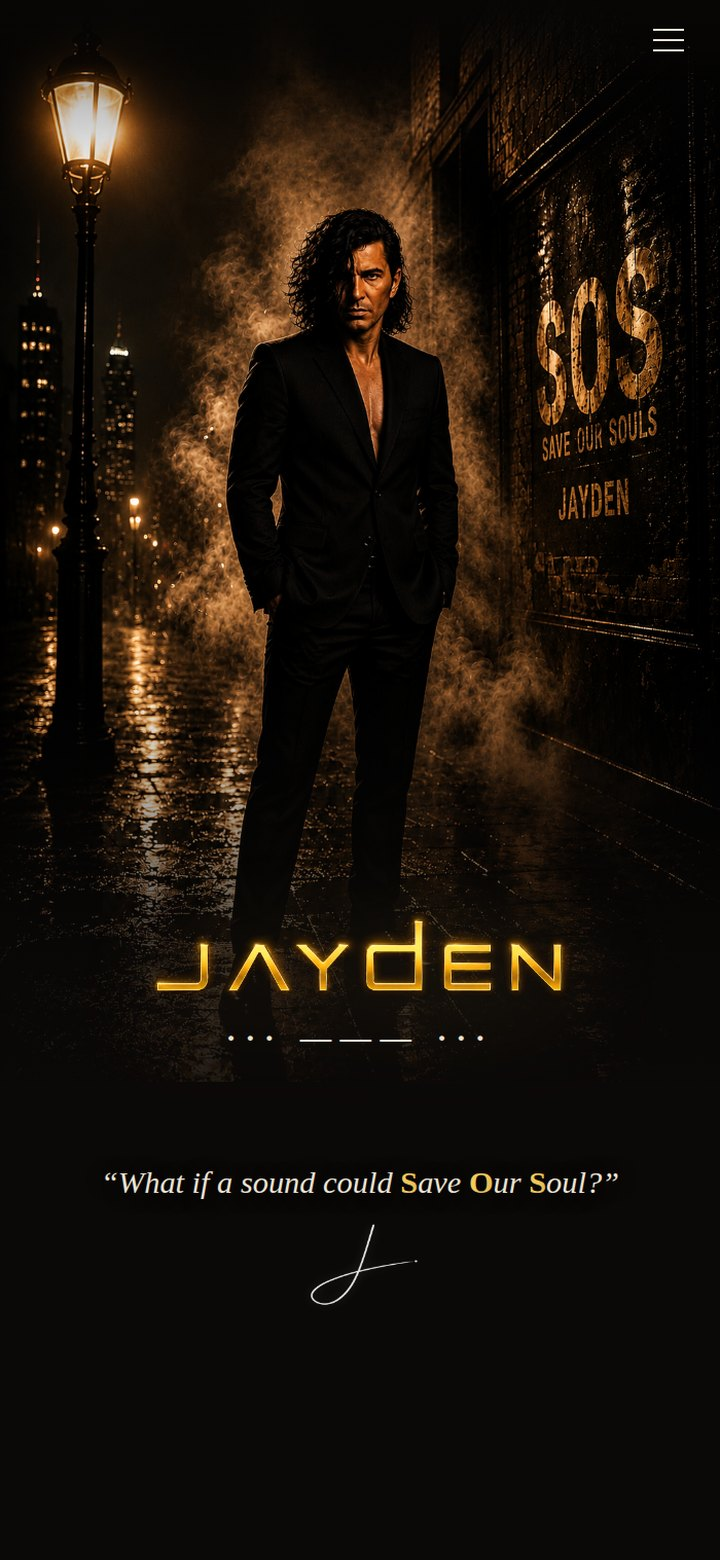
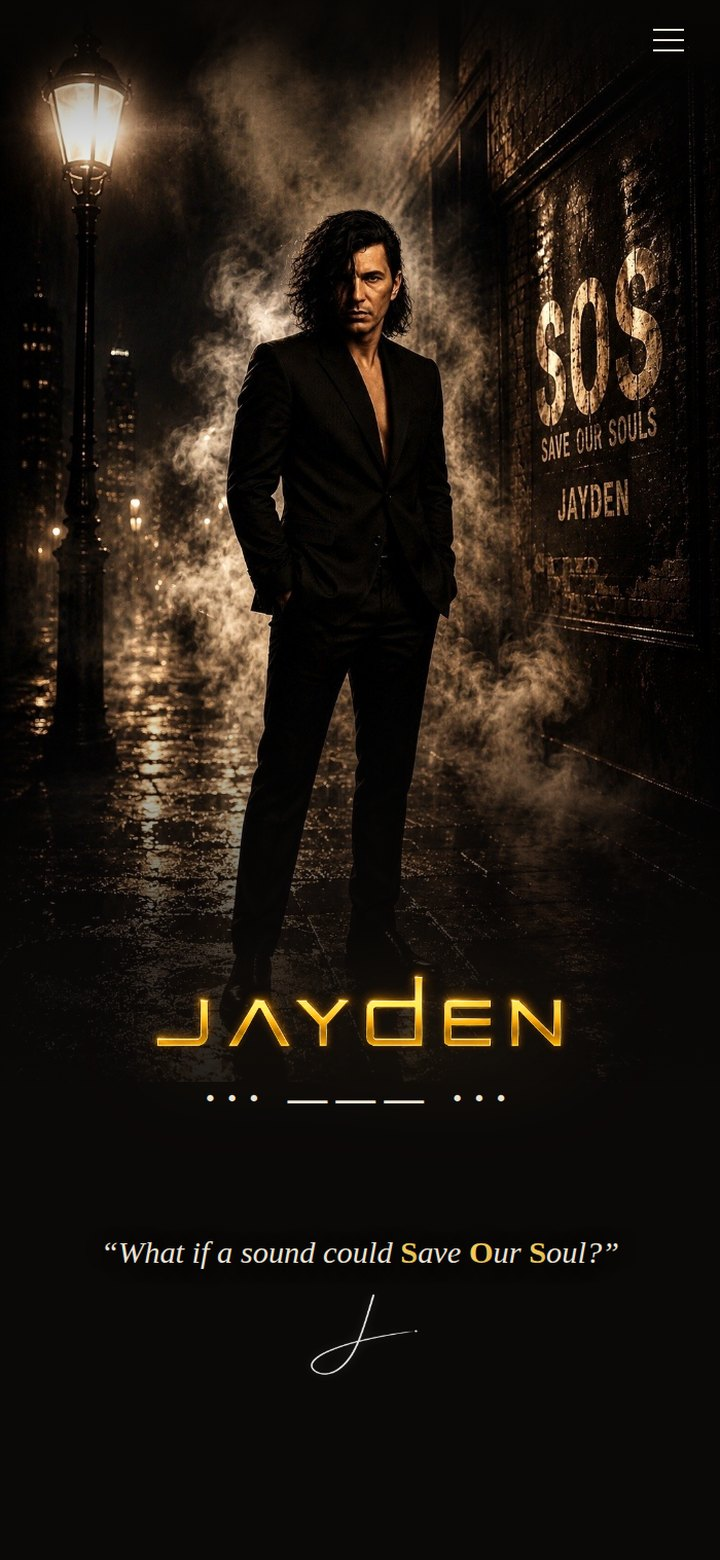
Met à jour les aperçus Jayden et Yuméa (desktop + mobile, dernières versions)
- Recapture depuis les sites déployés (nouveau titre/SEO Jayden, finitions Yuméa).
- Mobiles au ratio exact du cadre téléphone (entièrement visibles).
- Bump du cache des images (v3 -> v4), preload LCP mis à jour.

Claude-Session: https://claude.ai/code/session_01DNhDWoAcTDCkcv1VGcK7zk

diff --git a/script.js b/script.js
@@ -463,8 +463,8 @@
     const showcase = document.querySelector("[data-showcase]");
     if (!showcase) return;
     const PROJECTS = [
-      { host: "jaydenmusic.com", url: "https://jaydenmusic.com/", desktop: "img/jaydenmusic-desktop.jpg?v=3", mobile: "img/jaydenmusic-mobile.jpg?v=3", name: "Jayden", kindKey: "kind.jayden", kindFr: "Site web · Artiste musical", descKey: "desc.jayden", descFr: "Site officiel du chanteur Jayden — rock, soul et poésie." },
-      { host: "yumea-wellness.be", url: "https://www.yumea-wellness.be/", desktop: "img/yumea-desktop.jpg?v=3", mobile: "img/yumea-mobile.jpg?v=3", name: "Yuméa Wellness", kindKey: "kind.yumea", kindFr: "Site web · Bien-être & Head Spa", descKey: "desc.yumea", descFr: "Institut de Head Spa japonais et de soins du visage." },
+      { host: "jaydenmusic.com", url: "https://jaydenmusic.com/", desktop: "img/jaydenmusic-desktop.jpg?v=4", mobile: "img/jaydenmusic-mobile.jpg?v=4", name: "Jayden", kindKey: "kind.jayden", kindFr: "Site web · Artiste musical", descKey: "desc.jayden", descFr: "Site officiel du chanteur Jayden — rock, soul et poésie." },
+      { host: "yumea-wellness.be", url: "https://www.yumea-wellness.be/", desktop: "img/yumea-desktop.jpg?v=4", mobile: "img/yumea-mobile.jpg?v=4", name: "Yuméa Wellness", kindKey: "kind.yumea", kindFr: "Site web · Bien-être & Head Spa", descKey: "desc.yumea", descFr: "Institut de Head Spa japonais et de soins du visage." },
       { host: "crypto-nauts.com", url: "https://www.crypto-nauts.com", desktop: "img/cryptonauts-desktop.jpg?v=2", mobile: "img/cryptonauts-mobile.jpg?v=2", name: "Cryptonauts", kindKey: null, kindFr: "NFT · Crypto.com", descKey: "desc.crypto", descFr: "Collection NFT d'avatars d'astronautes sur Crypto.com." },
       { host: "oryxia.be", url: "https://oryxia.be/", desktop: "img/oryxia-desktop.jpg?v=2", mobile: "img/oryxia-mobile.jpg?v=2", name: "Oryxia Design", kindKey: "kind.oryxia", kindFr: "Site web · Gravure laser", descKey: "desc.oryxia", descFr: "Studio de gravure laser et création sur mesure." },
       { host: "cronobots.github.io/TOUKIN", url: "https://cronobots.github.io/TOUKIN/", desktop: "img/toukin-desktop.jpg?v=2", mobile: "img/toukin-mobile.jpg?v=2", name: "Toukin Physiothérapie", kindKey: "kind.toukin", kindFr: "Site web · Physiothérapie", descKey: "desc.toukin", descFr: "Cabinet de physiothérapie à Tolochenaz." }

diff --git a/index.html b/index.html
@@ -16,7 +16,7 @@
   <meta name="theme-color" content="#0a0a0b" />
   <meta name="google-site-verification" content="AOwTb-MmZ-WHOYJZg68jTofqsi45taLaHDBgZR3Zmu0" />
   <meta http-equiv="content-language" content="fr-BE" />
-  <link rel="preload" as="image" href="img/jaydenmusic-desktop.jpg?v=3" fetchpriority="high" />
+  <link rel="preload" as="image" href="img/jaydenmusic-desktop.jpg?v=4" fetchpriority="high" />
   <link rel="canonical" href="https://digitalconcept.be/" />
   <link rel="icon" type="image/svg+xml" href="favicon.svg" />
   <link rel="apple-touch-icon" href="favicon.svg" />
@@ -218,14 +218,14 @@
                       <span class="browser-url" data-sc-url>jaydenmusic.com</span>
                     </div>
                     <div class="browser-screen">
-                      <img data-sc-desktop src="img/jaydenmusic-desktop.jpg?v=3" alt="Jayden — aperçu du projet" width="1600" height="1000" loading="eager" fetchpriority="high" decoding="async" />
+                      <img data-sc-desktop src="img/jaydenmusic-desktop.jpg?v=4" alt="Jayden — aperçu du projet" width="1600" height="1000" loading="eager" fetchpriority="high" decoding="async" />
                     </div>
                   </div>
                 </div>
               </div>
               <div class="phone" aria-hidden="true">
                 <div class="phone-screen">
-                  <img data-sc-mobile src="img/jaydenmusic-mobile.jpg?v=3" alt="" />
+                  <img data-sc-mobile src="img/jaydenmusic-mobile.jpg?v=4" alt="" />
                   <span class="phone-island"></span>
                   <span class="phone-gloss"></span>
                 </div>
